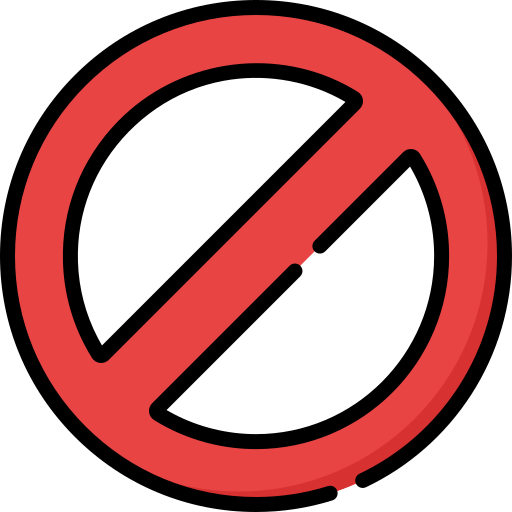
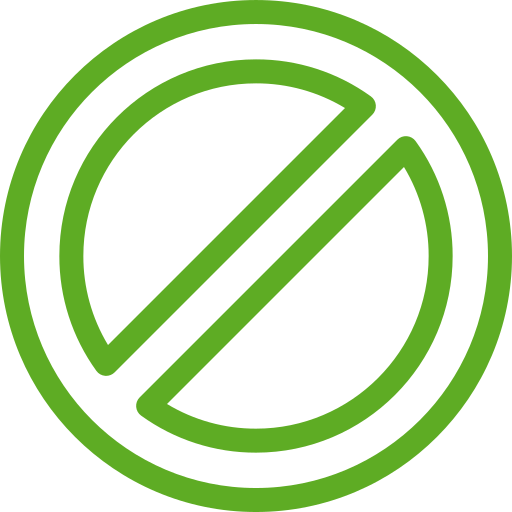
stop button layout

diff --git a/src/app/pages/ingredients/ingredient-list/ingredient-card/ingredient-card.component.html b/src/app/pages/ingredients/ingredient-list/ingredient-card/ingredient-card.component.html
@@ -1,9 +1,15 @@
 <div class="card-container">
     <img alt="Ingredient image"
          src="https://www.thecocktaildb.com/images/ingredients/{{ ingredientName }}-Medium.png" />
-    <div class="info">
+    <div class="info d-flex justify-content-between">
         <div class="name">{{ ingredientName }}</div>
     </div>
-    <button class="btn btn-sm btn-light plus_button" (click)="addChosenIngredient(ingredientName); $event.stopPropagation()"><img alt="Plus icon" class="card_icon plus_icon" src="assets/img/plus-sign.png">
+    <button class="btn btn-sm btn-light card_button plus_button"
+            (click)="addChosenIngredient(ingredientName); $event.stopPropagation()">
+        <img alt="Plus icon" class="card_icon plus_icon" src="assets/img/plus-sign.png">
+    </button>
+    <button class="btn btn-sm btn-light card_button stop_button"
+            (click)="addToStopList(ingredientName); $event.stopPropagation()">
+        <img alt="Stop button" class="card_icon stop_icon" src="assets/img/forbidden.png">
     </button>
 </div>

diff --git a/src/app/pages/ingredients/ingredient-list/ingredient-card/ingredient-card.component.scss b/src/app/pages/ingredients/ingredient-list/ingredient-card/ingredient-card.component.scss
@@ -32,24 +32,36 @@
     transition: 0.3s;
 }
 
-.plus_button {
+.card_button {
     position: absolute;
-    right: 0;
-    bottom: 40px;
     background: transparent;
     border: none;
 }
 
+.plus_button {
+    right: 0;
+    bottom: 40px;
+}
+
+.stop_button {
+    left: 5px;
+    top: 5px;
+}
+
 .card_icon {
     height: 25px;
+    border-radius: 50%;
+}
+
+.card_icon:hover {
+    background: green;
+    transition: 0.3s;
 }
 
 .plus_icon {
     height: 50px;
-    border-radius: 50%;
 }
 
-.plus_icon:hover {
-    background: green;
-    transition: 0.3s;
+.stop_icon {
+    height: 25px;
 }

diff --git a/src/app/pages/ingredients/ingredient-list/ingredient-card/ingredient-card.component.ts b/src/app/pages/ingredients/ingredient-list/ingredient-card/ingredient-card.component.ts
@@ -14,4 +14,7 @@ export class IngredientCardComponent {
         this.choseIngredientEvent.emit(ingredientName);
     }
 
+    addToStopList(ingredientName: string) {
+
+    }
 }
